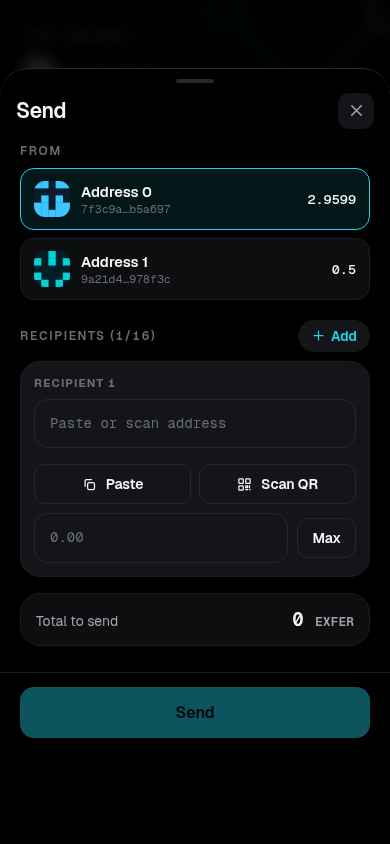
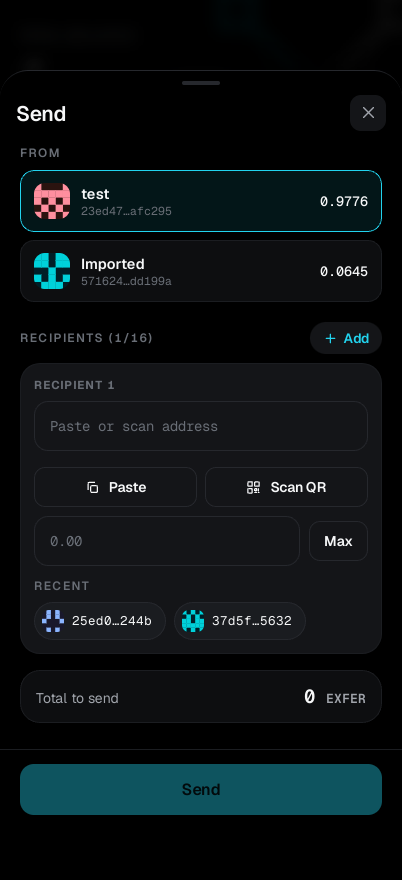
docs(readme): fresh screenshots — five tabs, agent, mining, sheets
The screenshot table still showed a three-tab wallet from before Agent,
Swap, mining and Vote landed. Re-shot every screen from a running build
at 402x880: wallet, agent, activity, settings, receive, send, earn.

Per-screen notes now cover the agent, swap and mining alongside the
indexer-backed activity feed. The parallel Chinese screenshot row is
gone — same screens, and the EN / 中文 switch is visible in the settings
shot — so there's one set of images to keep current instead of two.

diff --git a/README.md b/README.md
@@ -25,26 +25,43 @@ bloat), a pure-black canvas with a single cyan accent, and Geist / Geist Mono.
 
 ## Screens
 
+A bottom tab bar — **Wallet** / **Agent** / **Swap** / **Activity** /
+**Settings**. Receive, Send, mining, swap, and each address's detail open as
+sheets over the tab you're on. First launch creates a password-encrypted wallet
+or restores one from a `.vault` backup.
+
 <table>
   <tr>
-    <td align="center"><img src="docs/screenshots/wallet.png" width="160" alt="Wallet — balance and addresses" /></td>
-    <td align="center"><img src="docs/screenshots/activity.png" width="160" alt="Activity — From/To, on-chain history" /></td>
-    <td align="center"><img src="docs/screenshots/send.png" width="160" alt="Send — multiple recipients" /></td>
-    <td align="center"><img src="docs/screenshots/receive.png" width="160" alt="Receive — QR and address" /></td>
-    <td align="center"><img src="docs/screenshots/settings.png" width="160" alt="Settings — node, indexer, backup" /></td>
+    <td align="center"><img src="docs/screenshots/wallet.png" width="170" alt="Wallet — total balance, addresses, BNB wallet and mining entry points" /></td>
+    <td align="center"><img src="docs/screenshots/agent.png" width="170" alt="Agent — an on-device analyst that asks before it moves money" /></td>
+    <td align="center"><img src="docs/screenshots/activity.png" width="170" alt="Activity — on-chain history with real tx ids" /></td>
+    <td align="center"><img src="docs/screenshots/settings.png" width="170" alt="Settings — language, theme, accent, node, indexer, vote" /></td>
   </tr>
   <tr>
     <td align="center"><b>Wallet</b><br/>balance + addresses</td>
+    <td align="center"><b>Agent</b><br/>gems · honeypots · audits</td>
     <td align="center"><b>Activity</b><br/>From / To · on-chain</td>
-    <td align="center"><b>Send</b><br/>up to 16 recipients</td>
-    <td align="center"><b>Receive</b><br/>QR + copy</td>
     <td align="center"><b>Settings</b><br/>node · indexer · backup</td>
   </tr>
 </table>
 
-A bottom tab bar — **Wallet** / **Activity** / **Settings**. Receive, Send, and
-each address's detail open as full-screen sheets. First launch creates a
-password-encrypted wallet or restores one from a `.vault` backup.
+<table>
+  <tr>
+    <td align="center"><img src="docs/screenshots/receive.png" width="170" alt="Receive — QR code, full address, share and copy" /></td>
+    <td align="center"><img src="docs/screenshots/send.png" width="170" alt="Send — up to 16 recipients, paste or scan, Max" /></td>
+    <td align="center"><img src="docs/screenshots/earn.png" width="170" alt="Earn — solo or pool CPU mining from the phone" /></td>
+  </tr>
+  <tr>
+    <td align="center"><b>Receive</b><br/>QR + share</td>
+    <td align="center"><b>Send</b><br/>up to 16 recipients</td>
+    <td align="center"><b>Earn</b><br/>solo / pool mining</td>
+  </tr>
+</table>
+
+**Agent** is an on-device analyst: hunt fresh gems, sniff out honeypots, audit
+any contract, read the market. Every claim comes back with the tool call that
+produced it, and it can send, swap, or mine only behind a confirmation you can
+decline. Bring your own AI provider key in Settings.
 
 **Activity** is backed by the [exfer-indexer](https://github.com/exfer-stack/exfer-indexer):
 a complete per-address on-chain timeline with real tx ids and native **From / To**
@@ -52,27 +69,13 @@ counterparties — including deposits that landed while the app was closed. The
 indexer endpoint is configurable in Settings (it serves public read-only chain
 data, so no token is needed).
 
-### Bilingual — English / 简体中文
+**Swap** trades EXFER ⇄ BNB against the live pool rate, with a candlestick
+chart, market cap and 24h volume — and **Earn** puts the phone's CPU on the
+Argon2id proof-of-work, solo or pool.
 
-The whole UI switches live between English and Chinese (tap **EN / 中文** in
-Settings → Appearance). Same screens, fully localized:
-
-<table>
-  <tr>
-    <td align="center"><img src="docs/screenshots/wallet-zh.png" width="160" alt="钱包" /></td>
-    <td align="center"><img src="docs/screenshots/activity-zh.png" width="160" alt="动态" /></td>
-    <td align="center"><img src="docs/screenshots/send-zh.png" width="160" alt="发送" /></td>
-    <td align="center"><img src="docs/screenshots/receive-zh.png" width="160" alt="收款" /></td>
-    <td align="center"><img src="docs/screenshots/settings-zh.png" width="160" alt="设置" /></td>
-  </tr>
-  <tr>
-    <td align="center"><b>钱包</b><br/>余额 + 地址</td>
-    <td align="center"><b>动态</b><br/>来自 / 至 · 链上</td>
-    <td align="center"><b>发送</b><br/>最多 16 个收款人</td>
-    <td align="center"><b>收款</b><br/>二维码 + 复制</td>
-    <td align="center"><b>设置</b><br/>节点 · 索引器 · 备份</td>
-  </tr>
-</table>
+**Bilingual** — the whole UI switches live between English and 简体中文
+(**EN / 中文** in Settings → Appearance), alongside a light/dark theme and four
+accent colours.
 
 ## What you can do
 
